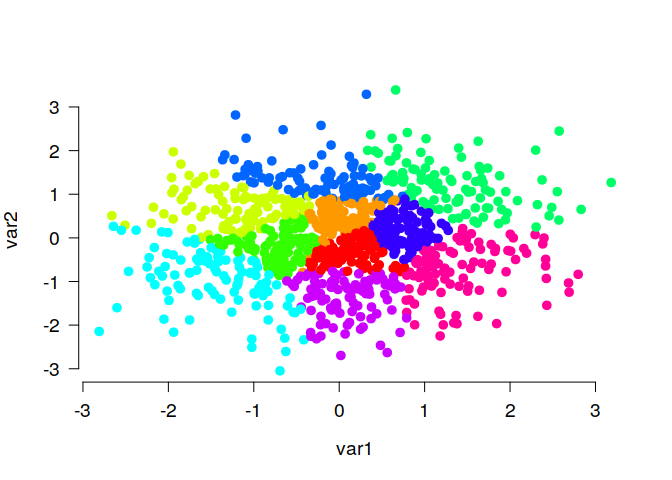
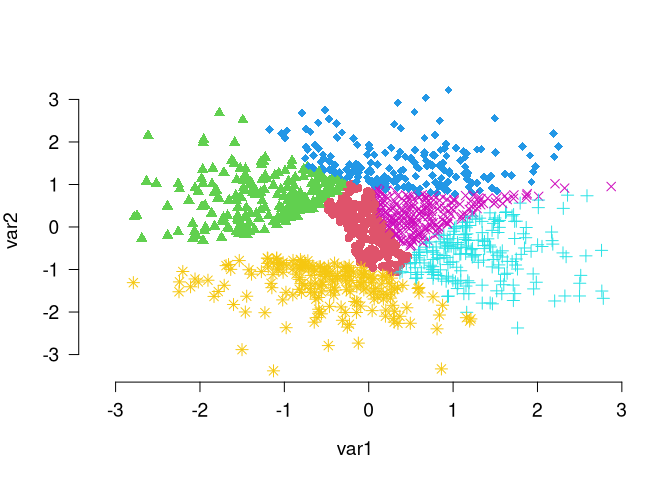
changed README

diff --git a/README.md b/README.md
@@ -1,22 +1,21 @@
-anticlust <a href='https://m-py.github.io/anticlust/'><img src='man/figures/anticlustStickerV1-0.svg' align="right" height="160" /></a>
-=======================================================================================================================================
+# anticlust <a href='https://m-py.github.io/anticlust/'><img src='man/figures/anticlustStickerV1-0.svg' align="right" height="160" /></a>
 
-Anticlustering partitions a pool of elements into subsets (i.e.,
-anticlusters) in such a way that the subsets are as similar as possible.
-This is accomplished by maximizing instead of minimizing a clustering
-objective function, such as the intra-cluster variance (used in k-means
-clustering) or the sum of pairwise distances within clusters. Thus,
-anticlustering creates similar sets of elements by maximizing
-heterogeneity within anticlusters. The package `anticlust` implements
-anticlustering algorithms as described in Papenberg and Klau (2020;
-<a href="https://doi.org/10.1037/met0000301" class="uri">https://doi.org/10.1037/met0000301</a>).
-It was originally developed to assign items to experimental conditions
-in experimental psychology, but it can be applied whenever a user
-requires that a given set of elements has to be partitioned into similar
-subsets, or when the within-group heterogeneity should be high.
+Anticlustering partitions a pool of elements into clusters (or
+*anticlusters*) with the goal of achieving high between-cluster
+similarity and high within-cluster heterogeneity. This is accomplished
+by maximizing instead of minimizing a clustering objective function,
+such as the intra-cluster variance (used in k-means clustering) or the
+sum of pairwise distances within clusters. Thus, anticlustering creates
+similar sets of elements by maximizing heterogeneity within
+anticlusters. The package `anticlust` implements anticlustering
+algorithms as described in Papenberg and Klau (2021;
+<https://doi.org/10.1037/met0000301>). It was originally developed to
+stimuli items to experimental conditions in experimental psychology, but
+it can be applied whenever a user requires that a given set of elements
+has to be partitioned groups that have to be as similar as possible, or
+when the within-group heterogeneity should be high.
 
-Installation
-------------
+## Installation
 
 The stable release of `anticlust` is available from
 [CRAN](https://CRAN.R-project.org/package=anticlust) and can be
@@ -36,29 +35,24 @@ version:
     library("remotes") # if not available: install.packages("remotes")
     install_github("m-Py/anticlust", ref = "devel")
 
-[Here](https://github.com/m-Py/anticlust/blob/devel/NEWS.md) you may
-find some hints on the most recent additions to the development version.
-
-Citation
---------
+## Citation
 
 If you use `anticlust` in your research, it would be courteous if you
 cite the following reference:
 
-Papenberg, M., & Klau, G. W. (2021). Using anticlustering to partition data sets into equivalent parts. *Psychological Methods, 26*(2), 161–174.
-<a href="https://doi.org/10.1037/met0000301" class="uri">https://doi.org/10.1037/met0000301</a>.
+Papenberg, M., & Klau, G. W. (2021). Using anticlustering to partition
+data sets into equivalent parts. *Psychological Methods, 26*(2),
+161–174. <https://doi.org/10.1037/met0000301>
 
-How do I learn about `anticlust`
---------------------------------
+## How do I learn about `anticlust`
 
 This README contains some basic information on the `R` package
 `anticlust`. More information is available via the following sources:
 
 -   A paper is available describing the theoretical background of
     anticlustering and the `anticlust` package in detail
-    (<a href="https://doi.org/10.1037/met0000301" class="uri">https://doi.org/10.1037/met0000301</a>).
-    The freely available preprint can be retrieved from
-    <a href="https://psyarxiv.com/3razc/" class="uri">https://psyarxiv.com/3razc/</a>.
+    (<https://doi.org/10.1037/met0000301>). The freely available
+    preprint can be retrieved from <https://psyarxiv.com/3razc/>.
 
 -   The [package website](https://m-py.github.io/anticlust/) contains
     all relevant documentation. This includes a
@@ -67,8 +61,7 @@ This README contains some basic information on the `R` package
     experiments and documentation for the main `anticlust` functions
     `anticlustering()`, `balanced_clustering()` and `matching()`.
 
-A quick start
--------------
+## A quick start
 
 In this initial example, I use the main function `anticlustering()` to
 create three similar sets of plants using the classical iris data set:
@@ -83,22 +76,22 @@ create three similar sets of plants using the classical iris data set:
       method = "exchange"
     )
 
-    ## The output is a vector that assigns a group (i.e, a number 
-    ## between 1 and K) to each input element:
+    # The output is a vector that assigns a group (i.e, a number
+    # between 1 and K) to each input element:
     anticlusters
-    #>   [1] 1 1 2 3 2 2 1 3 1 3 1 2 3 2 1 3 1 3 3 1 2 3 1 3 3 2 2 2 2 2 3 2 3 2 1 3 2
-    #>  [38] 2 1 2 1 3 2 1 1 1 3 1 3 3 3 1 1 2 3 3 1 3 1 2 3 3 1 2 2 1 1 2 2 3 1 1 3 3
-    #>  [75] 2 1 3 3 1 3 1 2 1 2 1 2 3 1 1 3 2 1 2 1 1 2 1 2 3 3 3 2 2 3 3 2 1 1 2 1 3
-    #> [112] 2 2 3 2 2 1 3 1 1 1 2 1 3 2 3 1 3 3 2 1 2 3 2 3 3 1 2 2 1 2 2 1 3 3 3 2 2
+    #>   [1] 3 2 2 1 3 2 1 3 3 3 3 3 2 1 2 1 1 3 2 1 3 1 1 3 2 2 3 3 3 3 2 2 1 2 3 3 2
+    #>  [38] 1 1 3 1 2 1 1 1 3 2 1 3 2 2 2 2 2 3 3 3 1 2 1 2 2 1 1 2 2 2 3 1 1 2 2 3 1
+    #>  [75] 1 1 2 3 1 1 1 3 1 3 2 1 1 1 2 3 3 1 2 3 2 2 2 2 2 2 2 1 2 2 2 3 3 3 1 1 3
+    #> [112] 3 2 2 2 2 1 2 1 1 2 3 3 3 1 1 1 1 1 1 1 3 3 2 2 3 3 3 1 3 3 1 3 3 3 1 3 2
     #> [149] 1 3
 
-    ## Each group has the same number of items:
+    # Each group has the same number of items:
     table(anticlusters)
     #> anticlusters
     #>  1  2  3 
     #> 50 50 50
 
-    ## Compare the feature means by anticluster:
+    # Compare the feature means by anticluster:
     by(iris[, -5], anticlusters, function(x) round(colMeans(x), 2))
     #> anticlusters: 1
     #> Sepal.Length  Sepal.Width Petal.Length  Petal.Width 
@@ -110,7 +103,7 @@ create three similar sets of plants using the classical iris data set:
     #> ------------------------------------------------------------ 
     #> anticlusters: 3
     #> Sepal.Length  Sepal.Width Petal.Length  Petal.Width 
-    #>         5.84         3.06         3.76         1.20
+    #>         5.85         3.06         3.76         1.20
 
 As illustrated in the example, we can use the function
 `anticlustering()` to create similar sets of elements. In this case
@@ -125,43 +118,26 @@ a `vector`. The number of groups is specified through the argument `K`.
 (Alternatively, it is also possible to pass a dissimilarity matrix
 describing the pairwise distance between elements.)
 
-To quantify set similarity, `anticlust` may employ one of two measures
-that have been developed in the context of cluster analysis:
+To quantify cluster similarity, `anticlust` employs one of several
+measures that have been developed in the context of cluster analysis:
 
--   the k-means “variance” objective
--   the cluster editing “diversity” objective
+-   the cluster editing “diversity” objective, setting
+    `objective = "diversity"` (default)
+-   the k-means “variance” objective, setting `objective = "variance"`
+-   the “k-plus” objective, an extension of the k-means variance
+    criterion, setting `objective = "kplus"`
+-   the “dispersion” objective (the minimum distance between any two
+    elements within the same cluster), setting
+    `objective = "dispersion"`
 
-The k-means objective is given by the sum of the squared distances
-between cluster centers and individual data points. The cluster editing
-objective is the sum of pairwise distances within each anticluster. The
-following plot illustrates both objectives for 12 elements that have
-been assigned to three sets. Each element is described by two numeric
-features, displayed as the *x* and *y* axis:
+The anticlustering objectives are described in detail in the
+documentation (`?diversity_objective`, `?variance_objective`,
+`?kplus_objective`, `?dispersion_objective`) and the references therein.
+It is also possible to optimize user-defined measures of cluster
+similarity, which is also described in the documentation
+(`?anticlustering`).
 
-<img src="man/figures/objectives-1.png" style="display: block; margin: auto;" />
-
-The lines connecting the dots illustrate the values that enter the
-objective functions. For (anti)cluster editing (“diversity objective”,
-plots on the right side), lines are drawn between pairs of elements
-within the same cluster, because the objective is the sum of the
-pairwise distances between elements that are part of the same cluster.
-For k-means (anticlustering) (“variance objective”, plots on the left
-side ), lines are drawn connecting eech element and the centroid of the
-cluster to which the element is assigned, because the objective is the
-sum of the squared distances between cluster centers and elements.
-
-Minimizing either the diversity or the variance objective creates three
-distinct clusters of elements (as shown in the lower plots), whereas
-maximization leads to a strong overlap of the three sets, i.e., three
-anticlusters (as shown in the upper plots).
-
-To vary the objective function in the `anticlust` package, we can change
-the parameter `objective`. To use anticluster editing, use
-`objective = "diversity"` (this is also the default). To maximize the
-k-means variance objective, set `objective = "variance"`.
-
-Categorical constraints
------------------------
+## Categorical constraints
 
 Sometimes, it is required that sets are not only similar with regard to
 some numeric variables, but we also want to ensure that each set
@@ -173,21 +149,18 @@ use the argument `categories` as follows:
     anticlusters <- anticlustering(
       iris[, -5],
       K = 3,
-      objective = "variance",
-      method = "exchange",
-      categories = iris[, 5]
+      categories = iris$Species
     )
 
     ## The species are as balanced as possible across anticlusters:
-    table(anticlusters, iris[, 5])
+    table(anticlusters, iris$Species)
     #>             
     #> anticlusters setosa versicolor virginica
     #>            1     17         17        16
     #>            2     17         16        17
     #>            3     16         17        17
 
-Matching and clustering
------------------------
+## Matching and clustering
 
 Anticlustering in a sense creates sets of dissimilar elements; the
 heterogenity within anticlusters is maximized (either using the cluster
@@ -198,9 +171,9 @@ similar while ensuring that clusters are of equal size. This is an
 example:
 
     # Generate random data, cluster the data set and visualize results
-    N <- 1000
+    N <- 1400
     lds <- data.frame(var1 = rnorm(N), var2 = rnorm(N))
-    cl <- balanced_clustering(lds, K = 10)
+    cl <- balanced_clustering(lds, K = 7)
     plot_clusters(lds, clusters = cl, show_axes = TRUE)
 
 <img src="man/figures/clustering-1.png" style="display: block; margin: auto;" />
@@ -221,11 +194,10 @@ small groups of similar elements, e.g., triplets as in this example:
 
 <img src="man/figures/matching-1.png" style="display: block; margin: auto;" />
 
-Questions and suggestions
--------------------------
+## Questions and suggestions
 
 If you have any question on the `anticlust` package or any suggestions
 (which are greatly appreciated), I encourage you to contact me via email
-(<a href="mailto:martin.papenberg@hhu.de" class="email">martin.papenberg@hhu.de</a>)
-or [Twitter](https://twitter.com/MPapenberg), or to open an [issue on
-the Github repository](https://github.com/m-Py/anticlust/issues).
+(<martin.papenberg@hhu.de>) or
+[Twitter](https://twitter.com/MPapenberg), or to open an [issue on the
+Github repository](https://github.com/m-Py/anticlust/issues).
